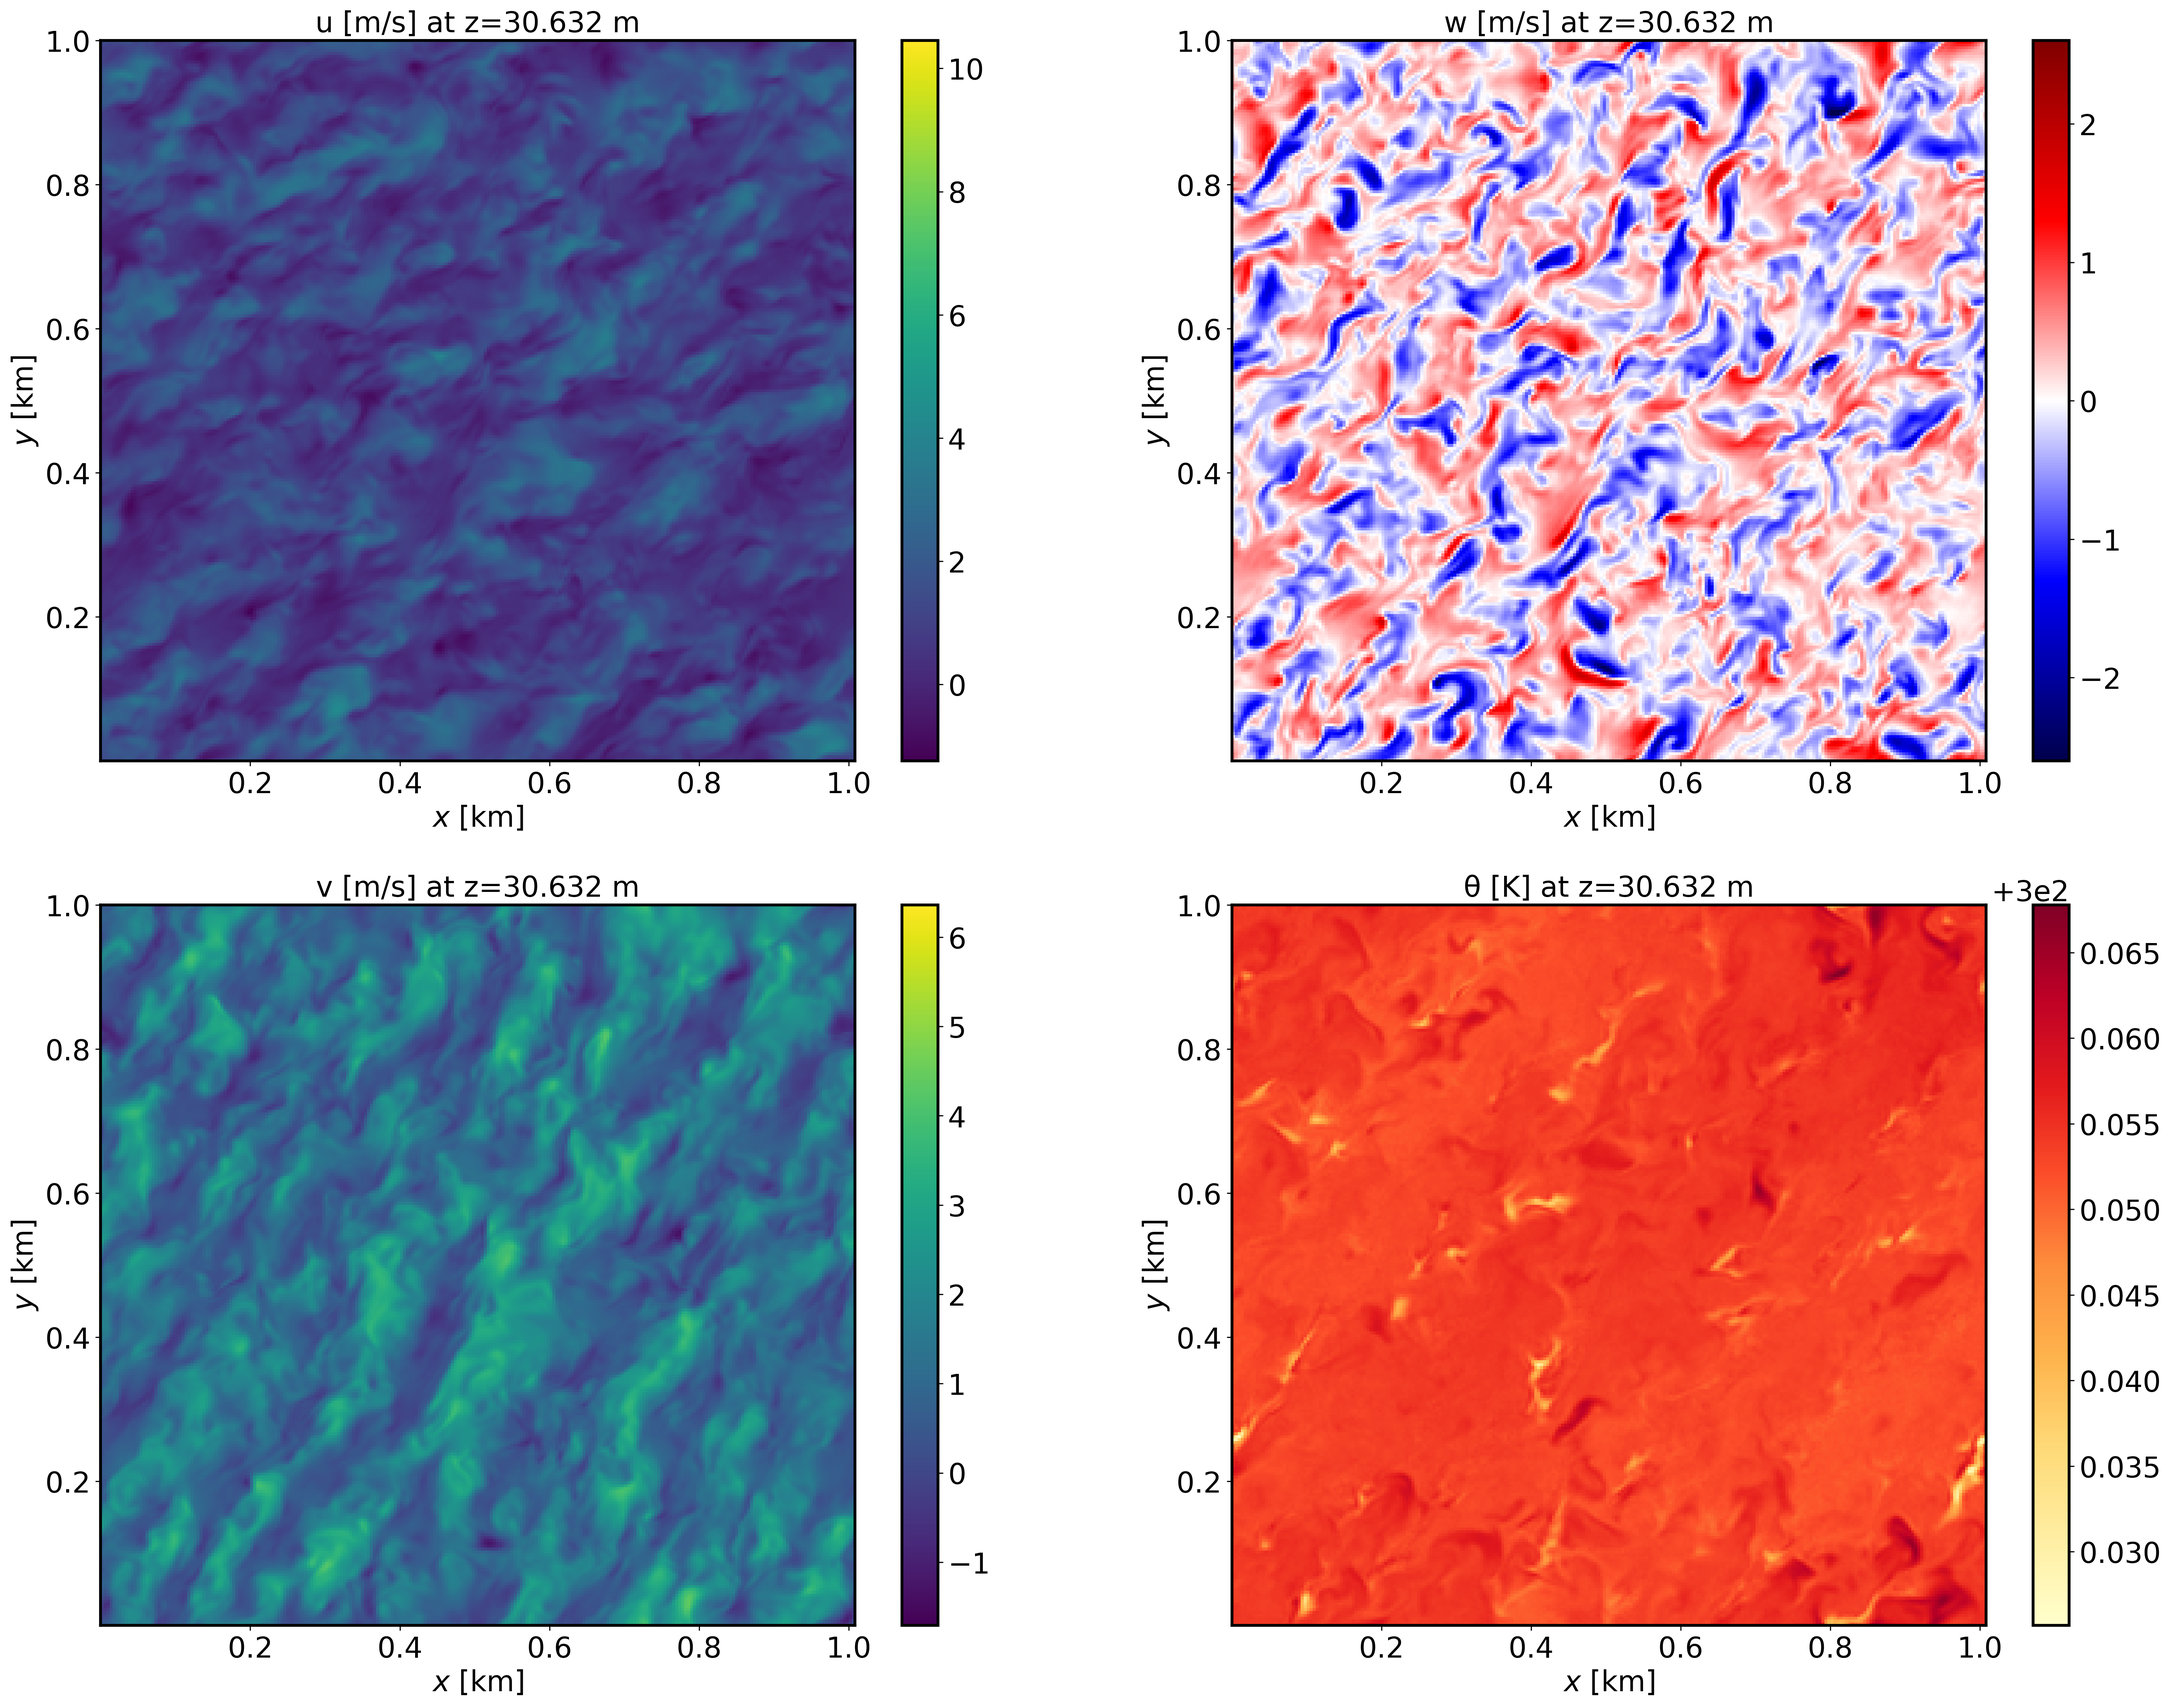
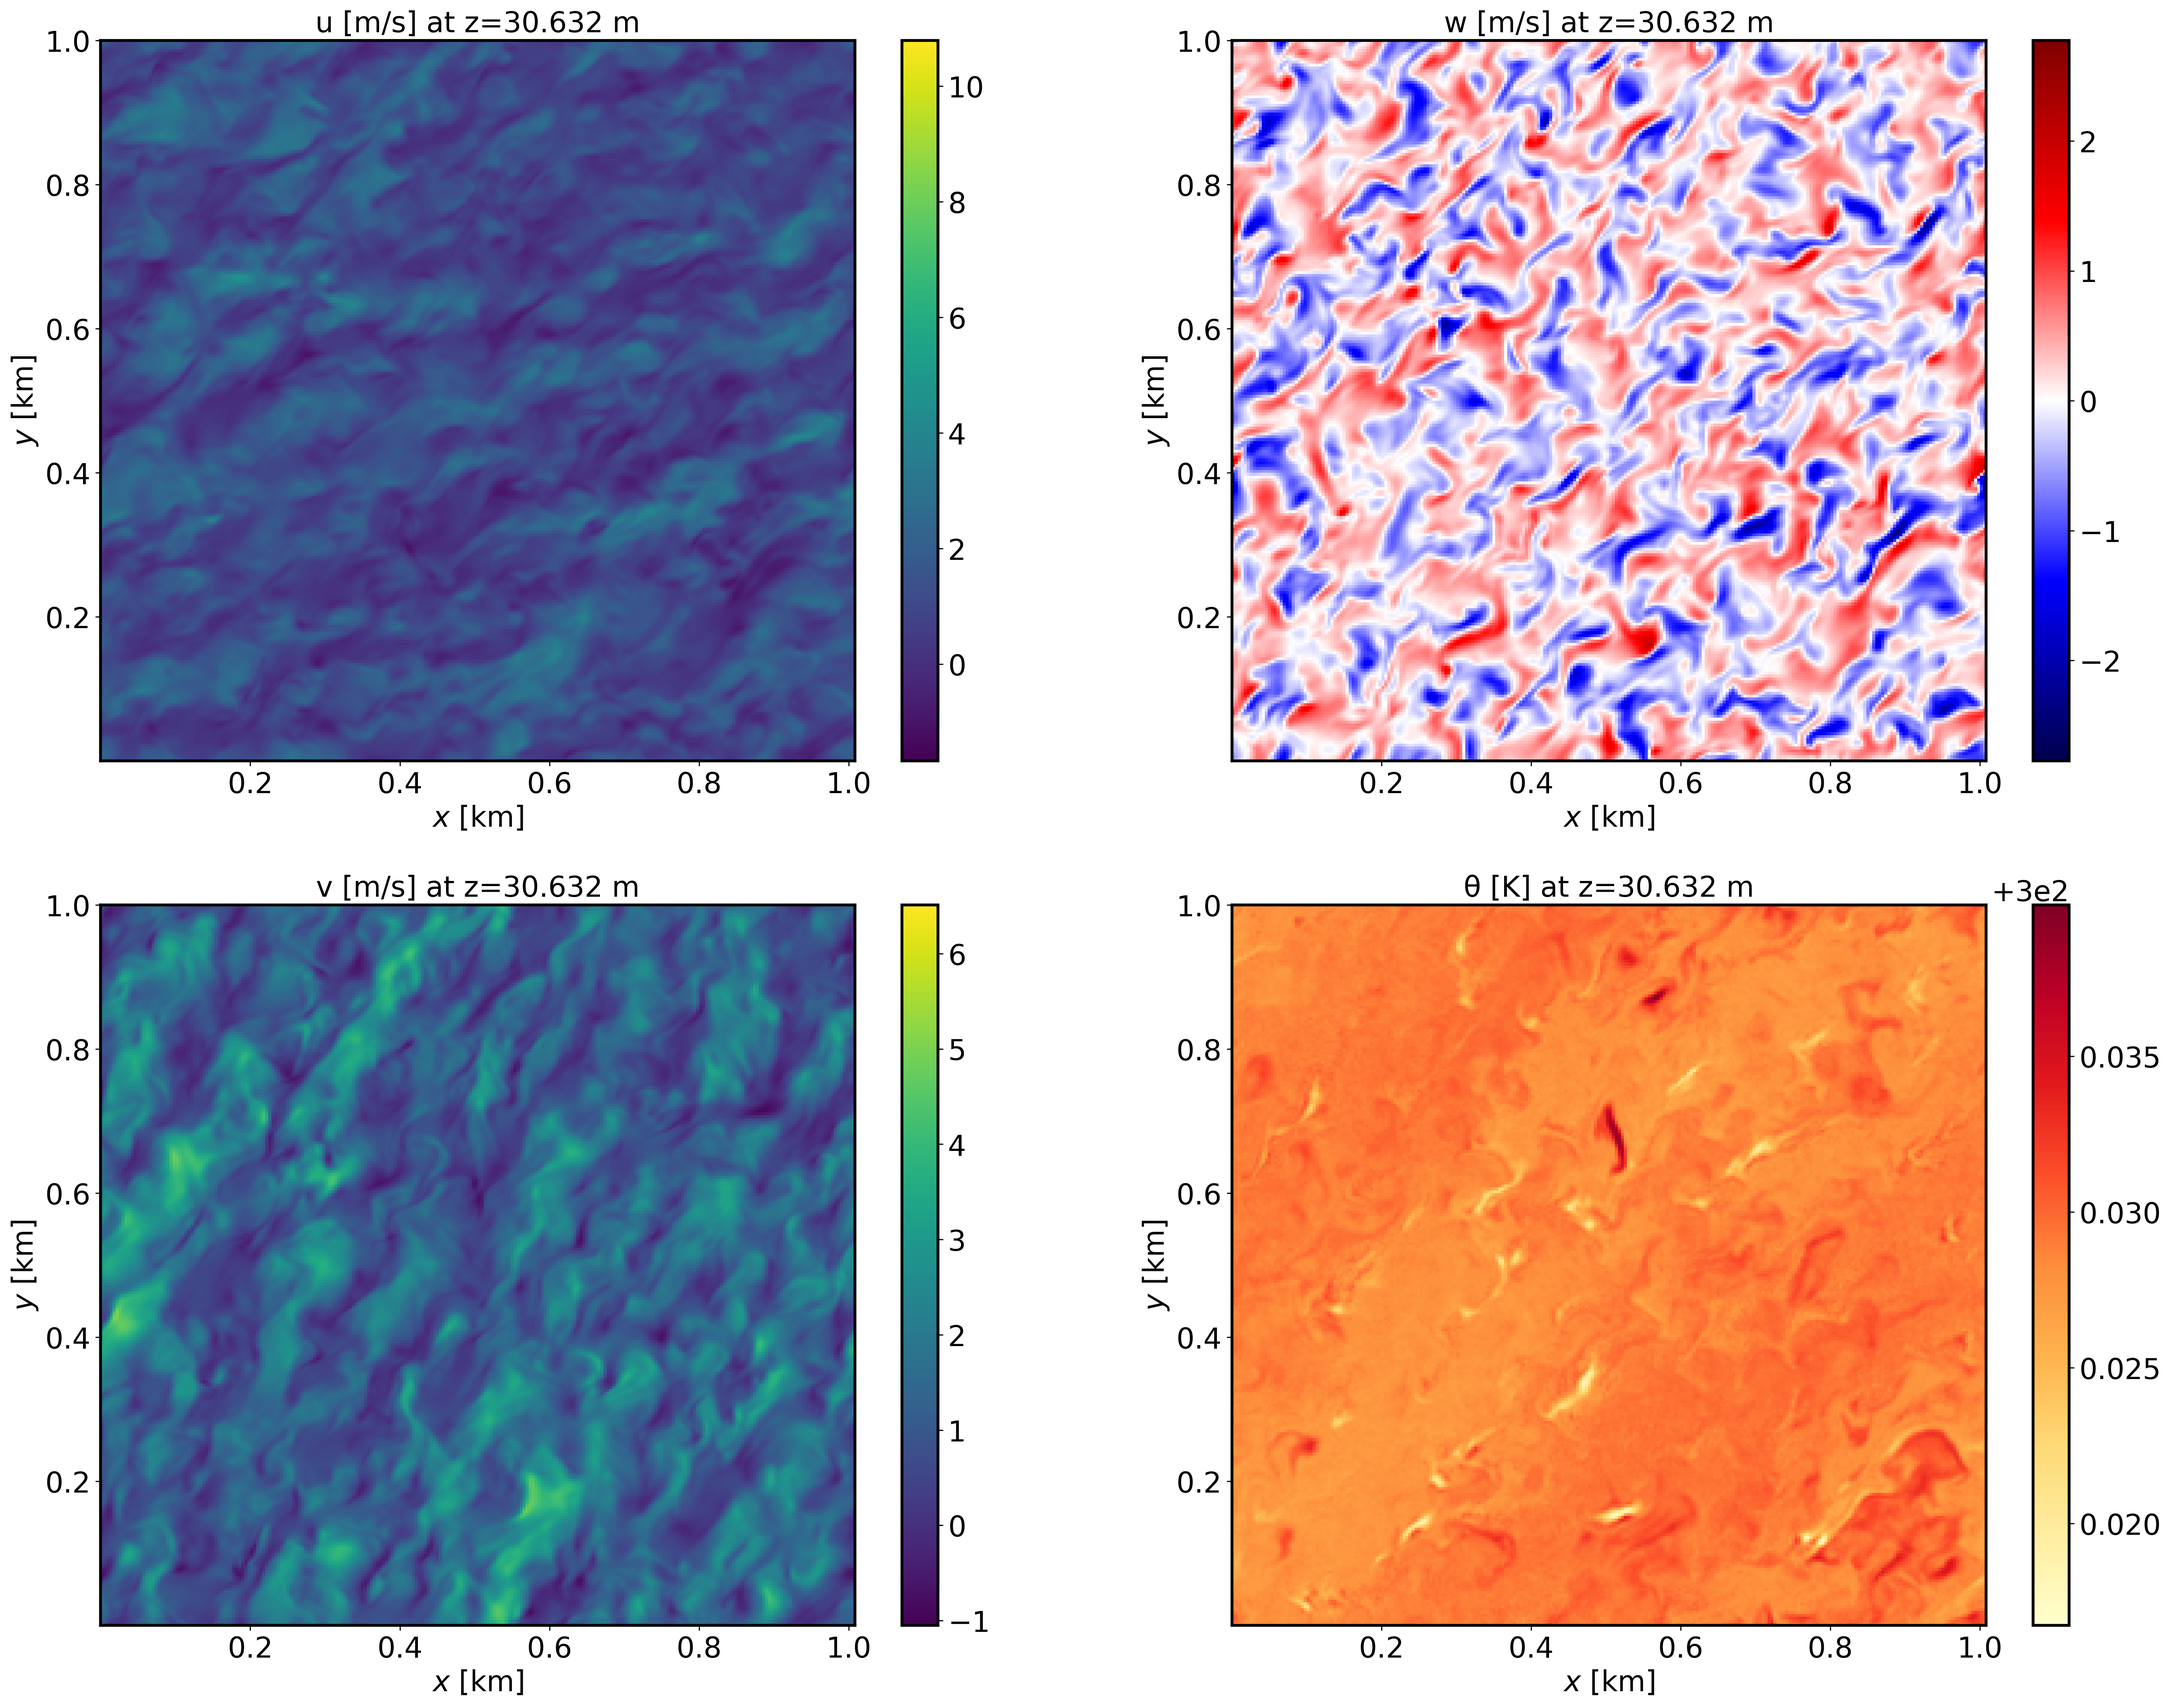
Fixing params files to use vertical 6th order diffusion as intended. Updated canopy tutorial case plots accordingly. (#39)

diff --git a/docs/Tutorial/cases/CANOPY.rst b/docs/Tutorial/cases/CANOPY.rst
@@ -30,7 +30,7 @@ Input parameters
     \end{cases} 
 
 * Surface heat flux:  :math:`0.0` Km/s
-* Surface roughness length: :math:`z_0=1e-12` m
+* Surface roughness length: :math:`z_0=1.0 \times 10^{-12}` m
 * Rayleigh damping layer: uppermost :math:`600` m of the domain
 * Initial perturbations: :math:`\pm 0.25` K 
 * Depth of perturbations: :math:`375` m
